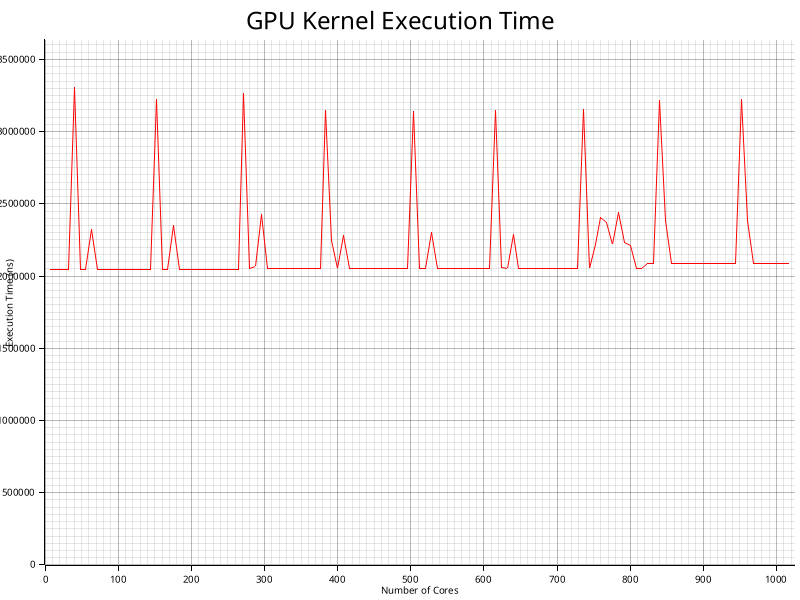
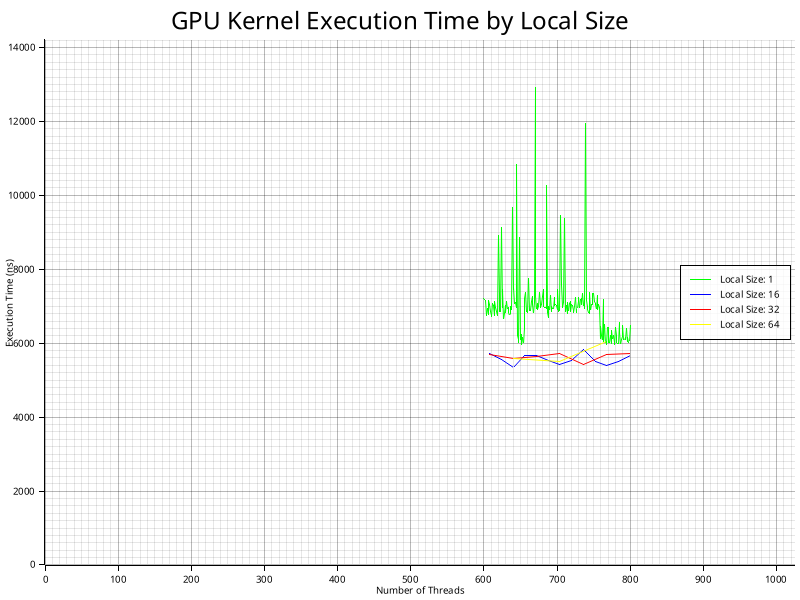
plot the local size = threads

Changed region(s): [[0.0, 0.0, 1.0, 0.87], [0.4688, 0.96, 0.5938, 0.99]]

diff --git a/src/main.rs b/src/main.rs
@@ -9,7 +9,7 @@ use plotters::prelude::*; // Importing plotters for plotting
 // It uses the ocl crate to handle OpenCL operations in Rust.
 // The kernel is a simple function that takes a buffer and writes to it.
 
-///                 Open cl                      hip 
+//                Open cl                      hip 
 //G Cores           (get group id,blockIdx )    __ocl_get_group_id(0),threadgrouposition_in_grid)
 //L Threads        (get local id,threadIdx)  __ocl_get_local_id(0),threadposition_in_block)
 
@@ -65,19 +65,18 @@ fn main() -> Result<()> {
 
     //1e6 takes Kernel execution time: 5.224µs
  
-    let kernel_src: &str = r#"kernel void add (global float *c) {
-        float a  =get_local_id(0);
-        for (int i = 0; i < 1000000; i++) {
+    let kernel_src: &str = r#"kernel void add (global float  *c) {
+        int a  =get_local_id(0);
+        for (int i = 0; i < 100000000; i++) {
             a*=2;
          }
-        c[get_global_id(0)] = a * get_global_id(0);
-        c[get_global_id(0)+128] = a;
+        c[get_global_id(0)] = a+get_local_id(0);
     }"#;
     
-    // Add dimensions to the ProQue builder
+    // Add dimensions to the ProQue builderf
     let mut proque: ProQue = ProQue::builder()
         .src(kernel_src)
-        .dims(1024)
+        .dims(128)
         //.dims(data_size)  // Specify dimensions here
         .queue_properties(ocl::core::QUEUE_PROFILING_ENABLE)  // Add this line
         .build()?;
@@ -100,73 +99,93 @@ fn main() -> Result<()> {
 
     //warmmip 
     for _warmup in 0..2 {
-        //warmup kernel
         unsafe {
             kernel.cmd()
-                .global_work_size(1)
-                .local_work_size(1)
-                .enq()?;}
-            let __ = proque.finish()?;
+                .global_work_size(64)
+                .local_work_size(32)
+                .enq()?;
+        }
+        let __ = proque.finish()?;
     }
-   let mut points  = Vec::new();
-   for test_cores in (8..1024).step_by(8){
-     use std::time::Instant;
-     let now = Instant::now(); 
-
-     unsafe {
-        kernel.cmd()
-            .global_work_size(test_cores)
-            .local_work_size(1)
-            .enq()?;
-     }
-     let __ = proque.finish()?;
-    let elapsed = now.elapsed();
-    println!("GPU kernel execution time: {:?}", elapsed);
-    points.push((test_cores, elapsed.as_nanos() as i64));
-   }
-
-   // After collecting points, find the maximum Y value for proper scaling
-   let max_y = points.iter().map(|(_, y)| *y).max().unwrap_or(0);
-   let y_range = 0..(max_y + (max_y / 10)); // Add 10% margin
-
-   // Use correct scaling for the chart
-   let root = BitMapBackend::new("output.png", (800, 600)).into_drawing_area();
-   root.fill(&WHITE).unwrap();
-   let mut chart = ChartBuilder::on(&root)
-       .caption("GPU Kernel Execution Time", ("sans-serif", 30))
-       .margin(5)
-       .x_label_area_size(30)
-       .y_label_area_size(40)
-       .build_cartesian_2d(0..1024, y_range)
-       .unwrap();
-
-   chart.configure_mesh()
-       .x_desc("Number of Cores")
-       .y_desc("Execution Time (ns)")
-       .draw()
-       .unwrap();
-   chart.draw_series(LineSeries::new(
-       points.iter().map(|(x, y)| (*x, *y)),
-       &RED,
-   )).unwrap();
-
-   // Print the path to the output file
-   println!("Plot saved to: {}", std::env::current_dir().unwrap().join("output.png").display());
-
-    use std::time::Instant;
-    let start: Instant = Instant::now();
+    
+    // Test with different local work sizes
+    let local_sizes = [1, 16, 32, 64];
+    let colors = [&GREEN, &BLUE, &RED, &YELLOW];
+    let mut all_points: Vec<(usize, Vec<(i32, i64)>)> = Vec::new();
+    
+    for &local_size in &local_sizes {
+        let mut points: Vec<(i32, i64)> = Vec::new();
+        println!("\nTesting with local_work_size = {}", local_size);
         
-    let event = unsafe {
-        kernel.cmd()
-            .global_work_size(32)
-            .local_work_size(4)
-            .enq()?;
-    };
+        // Calculate the range bounds as multiples of local_size
+        let start = ((600 + local_size - 1) / local_size) * local_size; // Round up to next multiple
+        let end = (800 / local_size) * local_size; // Round down to previous multiple
+        
+        // Make sure global size is multiple of local size
+        for test_cores in (start..=end).step_by(local_size as usize) {
+            let now = Instant::now(); 
+            
+            unsafe {
+                kernel.cmd()
+                    .global_work_size(test_cores)
+                    .local_work_size(local_size) 
+                    .enq()?;
+            }
+            let __ = proque.finish()?;
+            let elapsed = now.elapsed();
+            println!("Threads: {}, Time: {:?}", test_cores, elapsed);
+            points.push((test_cores, elapsed.as_nanos() as i64));
+        }
+        
+        all_points.push((local_size as usize, points));
+    }
 
-    let __ = proque.finish()?;
-    let elapsed =  start.elapsed();
-    println!("GPU kernel execution time: {:?}", elapsed);
-  
+    // Find max Y value across all series for proper scaling
+    let max_y = all_points.iter()
+        .flat_map(|(_, points)| points.iter().map(|(_, y)| *y))
+        .max()
+        .unwrap_or(0);
+    let y_range: std::ops::Range<i64> = 0..(max_y + (max_y / 10));
+
+    // Create chart with all series
+    let root = BitMapBackend::new("output.png", (800, 600)).into_drawing_area();
+    root.fill(&WHITE).expect("Failed to fill background");
+    let mut chart: ChartContext<'_, BitMapBackend<'_>, Cartesian2d<plotters::coord::types::RangedCoordi32, plotters::coord::types::RangedCoordi64>> = ChartBuilder::on(&root)
+        .caption("GPU Kernel Execution Time by Local Size", ("sans-serif", 30))
+        .margin(5)
+        .x_label_area_size(30)
+        .y_label_area_size(40)
+        .build_cartesian_2d(0..1024, y_range)
+        .expect("Failed to build chart");
+
+    chart.configure_mesh()
+        .x_desc("Number of Threads")
+        .y_desc("Execution Time (ns)")
+        .dr0aw()
+        .expect("Failed to draw mesh");
+    
+    // Draw each series with different color
+    for (i, (local_size, points)) in all_points.iter().enumerate() {
+        let color: &RGBColor = colors[i];
+        chart.draw_series(LineSeries::new(
+            points.iter().map(|(x, y)| (*x, *y)),
+            color,
+        ))
+        .expect("Failed to draw series")
+        .label(format!("Local Size: {}", local_size))
+        .legend(move |(x, y)| PathElement::new(vec![(x, y), (x + 20, y)], color));
+    }
+    
+    // Add a legend
+    chart.configure_series_labels()
+        .background_style(&WHITE.mix(0.8))
+        .border_style(&BLACK)
+        .draw()
+        .expect("Failed to draw legend");
+
+    // Print the path to the output file
+    println!("Plot saved to: {}", std::env::current_dir()?.join("output.png").display());
+    
     let mut c_data = vec![0.0f32; 128];
     c_buf.cmd().read(&mut c_data).enq()?;
 
